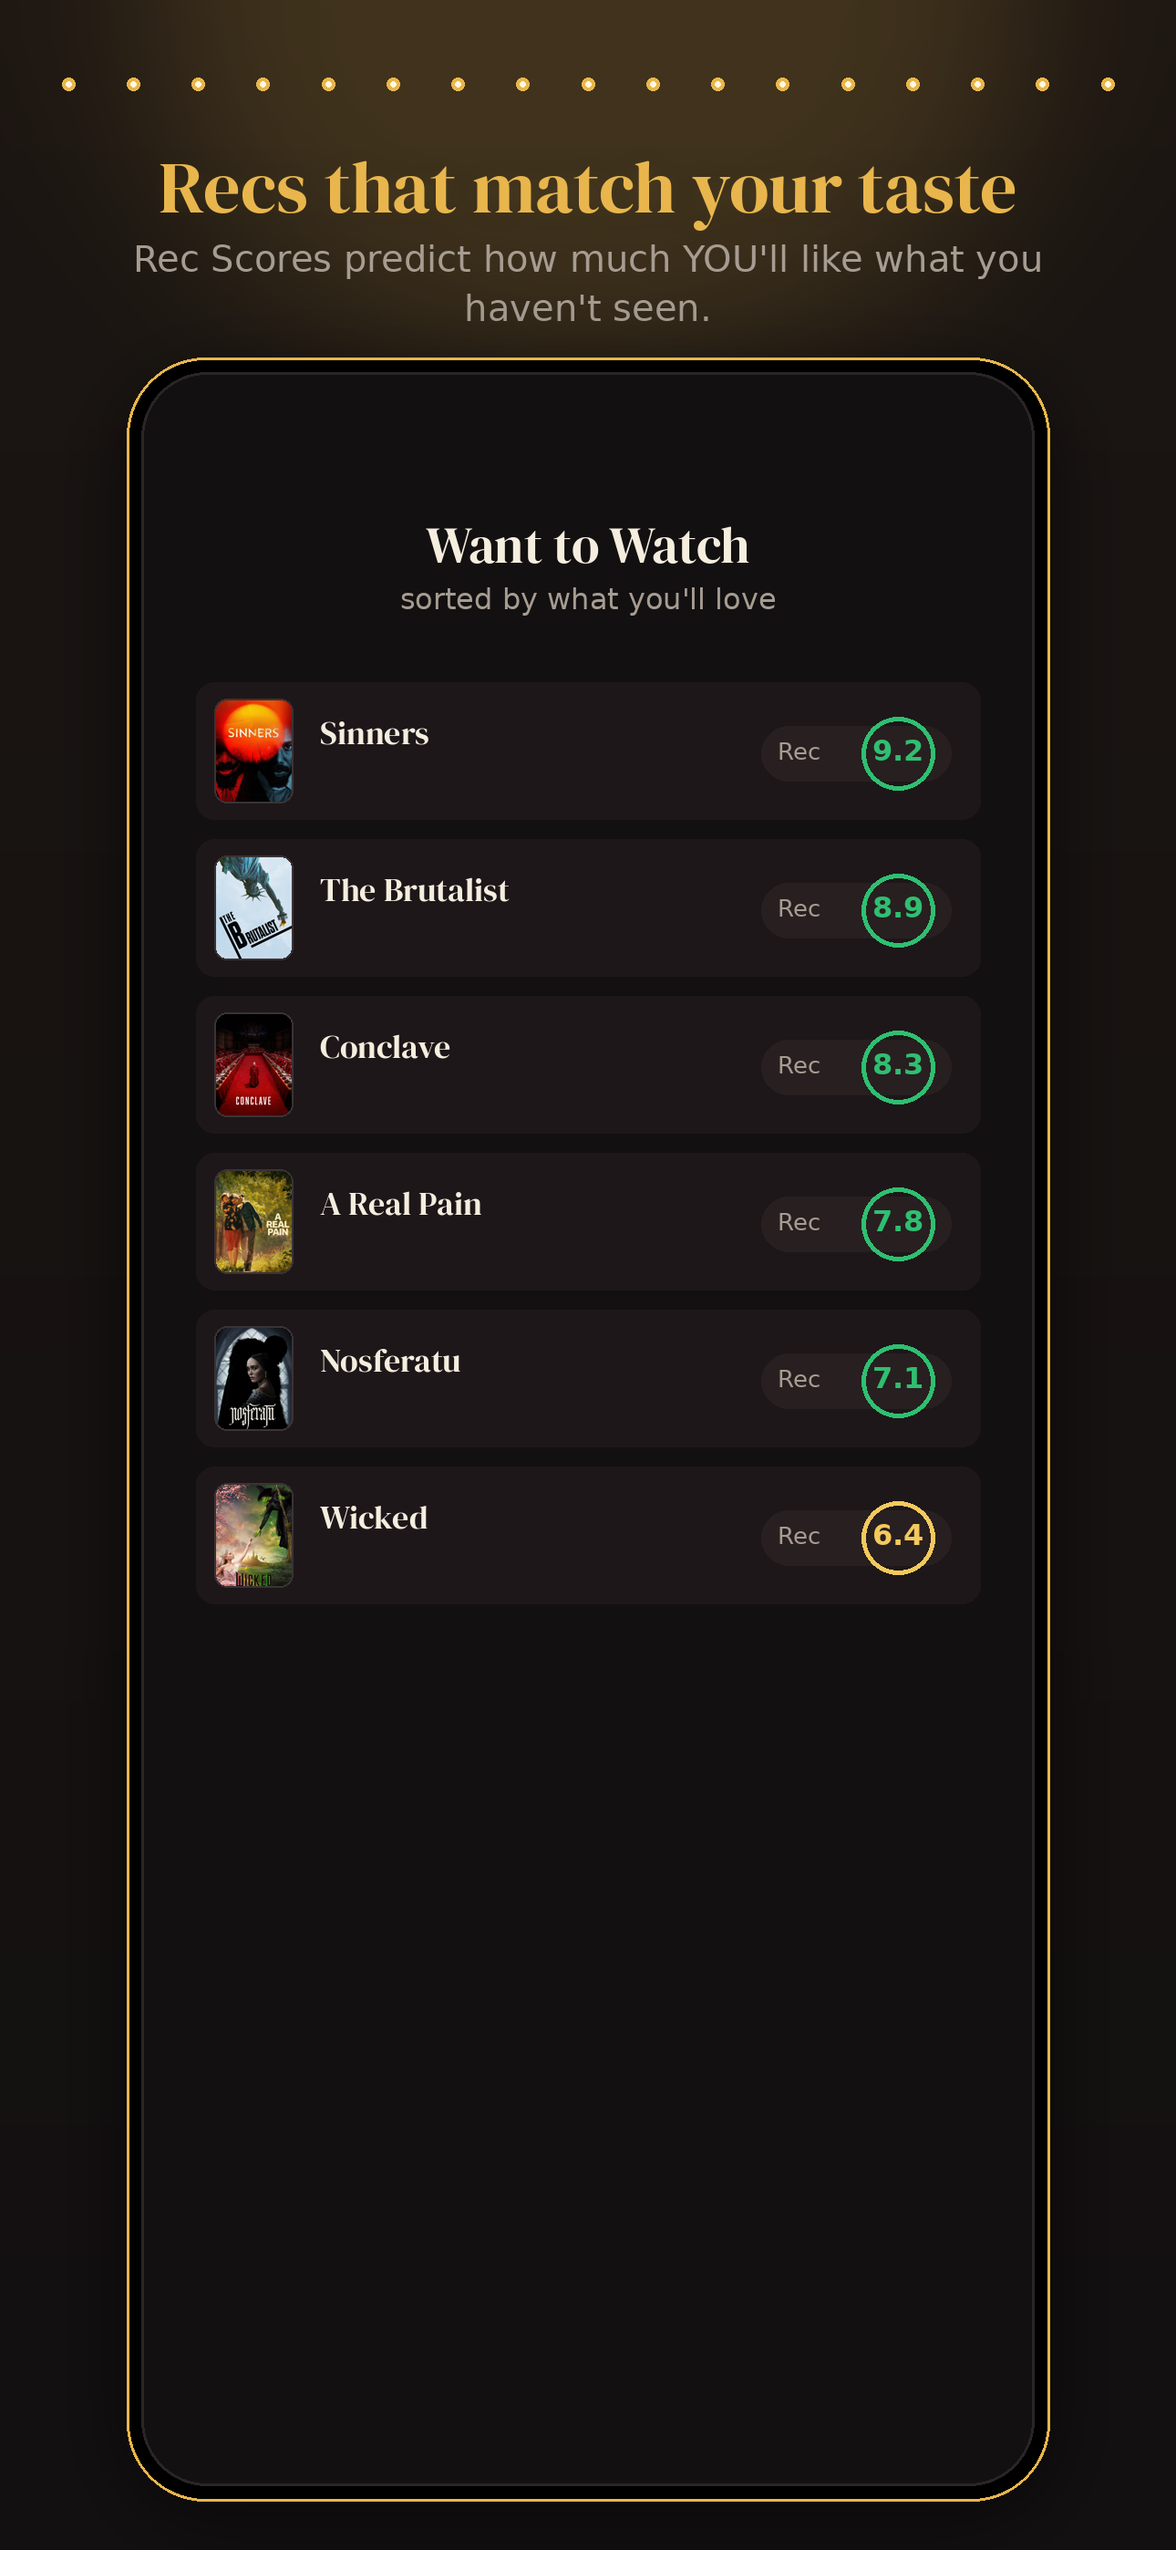
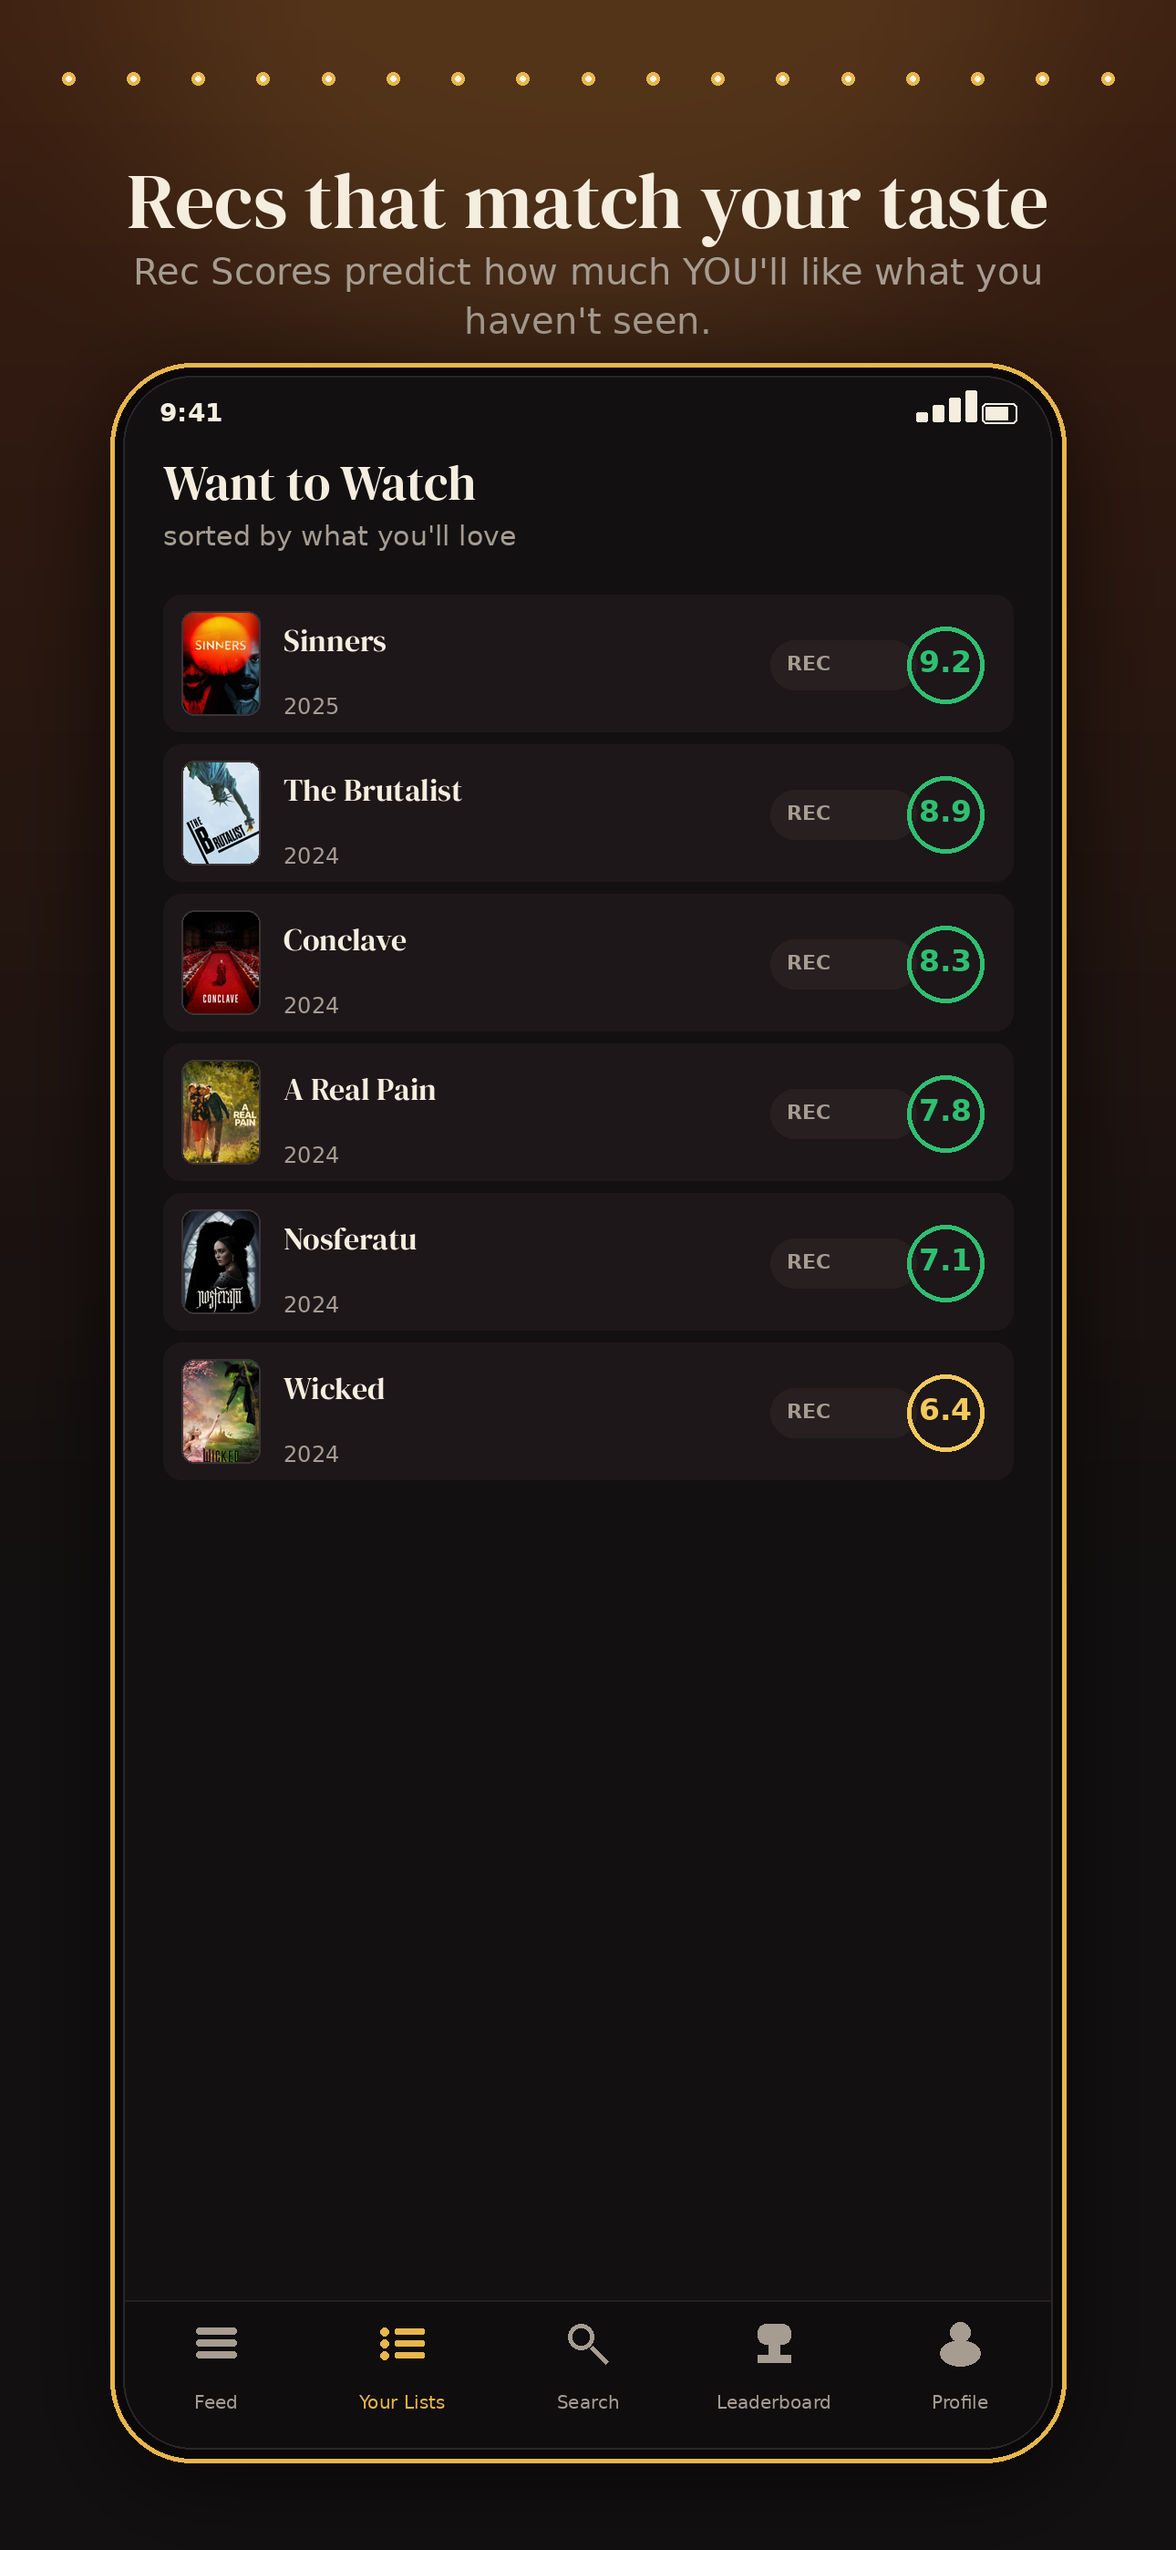
App Store screenshots: marquee bulbs + gold frame, clean header, current UI
Keep the clean serif header/subheader and large iPhone, bring back the marquee
bulb trim and gold phone frame, and render the current app UI (Your Lists
segmented tabs + filter chips, feed with cini header + cards, 5-tab bar) with
real posters on per-frame branded backdrops.

diff --git a/docs/appstore/generate.py b/docs/appstore/generate.py
@@ -74,17 +74,28 @@ def wrap(d, t, f, maxw):
     if cur: out.append(cur)
     return out
 
-def bg():
-    img = Image.new("RGB",(W,H),BG)
+# Per-screen branded backdrops — distinct warm cinema tones (top), settling
+# into the house-lights-down charcoal. Cohesive with the marquee palette.
+BACKDROPS = {
+    "velvet": (0x3a, 0x16, 0x12),
+    "gold":   (0x39, 0x2b, 0x10),
+    "plum":   (0x2c, 0x16, 0x30),
+    "bronze": (0x33, 0x24, 0x12),
+    "ember":  (0x3a, 0x1d, 0x10),
+}
+def bg(accent="gold"):
+    top = BACKDROPS.get(accent, BACKDROPS["gold"])
+    base = (0x13, 0x10, 0x11)
+    img = Image.new("RGB",(W,H))
     d = ImageDraw.Draw(img)
     for y in range(H):
-        t=y/H
-        r=int(0x13+ (0x24-0x13)*(1-t)*0.5); g=int(0x10+(0x1c-0x10)*(1-t)*0.5); b=int(0x11+(0x14-0x11)*(1-t)*0.5)
+        t = min(y/(H*0.62), 1.0)        # fade the tint out by ~60% down
+        r=int(top[0]+(base[0]-top[0])*t); g=int(top[1]+(base[1]-top[1])*t); b=int(top[2]+(base[2]-top[2])*t)
         d.line([(0,y),(W,y)], fill=(r,g,b))
+    # soft marquee-gold glow up top, the brand signature
     glow = Image.new("RGBA",(W,H),(0,0,0,0))
-    gd=ImageDraw.Draw(glow)
-    gd.ellipse([W/2-560, -380, W/2+560, 480], fill=(232,182,76,46))
-    glow=glow.filter(ImageFilter.GaussianBlur(120))
+    ImageDraw.Draw(glow).ellipse([W/2-620,-420,W/2+620,460], fill=(232,182,76,40))
+    glow=glow.filter(ImageFilter.GaussianBlur(150))
     img.paste(Image.alpha_composite(img.convert("RGBA"),glow).convert("RGB"),(0,0))
     return img
 
@@ -95,35 +106,37 @@ def bulbs(d, y, n=17):
         d.ellipse([x-7,y-7,x+7,y+7], fill=MARQUEE)
         d.ellipse([x-3,y-3,x+3,y+3], fill="#fff7e0")
 
-def caption(d, headline, sub, hl_color=MARQUEE):
-    y=150
-    bulbs(d, 92)
-    for ln in wrap(d, headline, sf(80), W-150):
-        ctext(d, W/2, y, ln, sf(80), hl_color, glow=(232,182,76,70)); y+=94
-    y+=16
-    for ln in wrap(d, sub, sa(40), W-220):
+def caption(d, headline, sub):
+    bulbs(d, 86)              # marquee trim across the very top
+    y=160
+    for ln in wrap(d, headline, sf(86), W-150):
+        ctext(d, W/2, y, ln, sf(86), INK); y+=100
+    y+=14
+    for ln in wrap(d, sub, sa(40), W-200):
         ctext(d, W/2, y, ln, sa(40), GRAY); y+=54
     return y
 
 SCREEN = None  # set by phone(); poster() pastes onto this
 def phone(top, draw_screen):
+    """Large clean phone — black bezel + soft shadow, no ornamental rim."""
     global SCREEN
-    pw, ph = 980, 2796-top-70
+    pw, ph = 1020, 2796-top-110
     x0=(W-pw)//2; y0=top
     sh=Image.new("RGBA",(W,H),(0,0,0,0))
-    ImageDraw.Draw(sh).rounded_rectangle([x0-16,y0+10,x0+pw+16,y0+ph+30], radius=92, fill=(0,0,0,150))
-    sh=sh.filter(ImageFilter.GaussianBlur(40))
+    ImageDraw.Draw(sh).rounded_rectangle([x0-14,y0+14,x0+pw+14,y0+ph+34], radius=96, fill=(0,0,0,160))
+    sh=sh.filter(ImageFilter.GaussianBlur(46))
     BASE.paste(Image.alpha_composite(BASE.convert("RGBA"),sh).convert("RGB"),(0,0))
     d=ImageDraw.Draw(BASE)
-    d.rounded_rectangle([x0-16,y0-16,x0+pw+16,y0+ph+16], radius=86, fill="#000000")
-    d.rounded_rectangle([x0-16,y0-16,x0+pw+16,y0+ph+16], radius=86, outline=MARQUEE, width=3)
+    d.rounded_rectangle([x0-14,y0-14,x0+pw+14,y0+ph+14], radius=90, fill="#0a0809")
+    # marquee-gold frame echoing the app icon's border
+    d.rounded_rectangle([x0-14,y0-14,x0+pw+14,y0+ph+14], radius=90, outline=MARQUEE, width=5)
     screen=Image.new("RGB",(pw,ph),BG); SCREEN=screen
     sd=ImageDraw.Draw(screen)
     draw_screen(sd, pw, ph)
     mask=Image.new("L",(pw,ph),0)
-    ImageDraw.Draw(mask).rounded_rectangle([0,0,pw-1,ph-1], radius=72, fill=255)
+    ImageDraw.Draw(mask).rounded_rectangle([0,0,pw-1,ph-1], radius=76, fill=255)
     BASE.paste(screen,(x0,y0),mask)
-    d.rounded_rectangle([x0,y0,x0+pw-1,y0+ph-1], radius=72, outline="#2a2526", width=3)
+    d.rounded_rectangle([x0,y0,x0+pw-1,y0+ph-1], radius=76, outline="#2a2526", width=2)
 
 def score_badge(d, cx, cy, val, r=44, color=None):
     color = color or (GREEN if val>=7 else FINE if val>=5 else DIS)
@@ -156,88 +169,159 @@ def poster(d, x, y, w, h, title="", tone=0, query=None, year=None):
 
 SHOTS=[]
 
+def status_bar(d, pw):
+    d.text((40, 24), "9:41", font=sb(28), fill=INK)
+    # signal + battery glyphs (simple)
+    for i in range(4):
+        h=10+i*8; d.rounded_rectangle([pw-150+i*18, 50-h, pw-138+i*18, 50], radius=2, fill=INK)
+    d.rounded_rectangle([pw-78, 30, pw-40, 52], radius=5, outline=INK, width=2)
+    d.rectangle([pw-74, 34, pw-50, 48], fill=INK)
+
+def tabbar(d, pw, ph, active=0):
+    bh=164; y=ph-bh
+    d.rectangle([0,y,pw,ph], fill=(15,13,14))
+    d.line([(0,y),(pw,y)], fill="#241f20", width=2)
+    labels=["Feed","Your Lists","Search","Leaderboard","Profile"]
+    step=pw/5
+    for i,lbl in enumerate(labels):
+        cx=step*i+step/2; iy=y+46; col=MARQUEE if i==active else GRAY
+        if i==0:
+            for k in range(3): d.rounded_rectangle([cx-22,iy-16+k*13,cx+22,iy-9+k*13],radius=3,fill=col)
+        elif i==1:
+            for k in range(3):
+                d.ellipse([cx-24,iy-16+k*13,cx-15,iy-7+k*13],fill=col)
+                d.rounded_rectangle([cx-8,iy-15+k*13,cx+24,iy-9+k*13],radius=2,fill=col)
+        elif i==2:
+            d.ellipse([cx-22,iy-20,cx+6,iy+8],outline=col,width=5); d.line([cx+3,iy+5,cx+20,iy+22],fill=col,width=6)
+        elif i==3:
+            d.rounded_rectangle([cx-18,iy-20,cx+18,iy+2],radius=9,fill=col)
+            d.rectangle([cx-6,iy+2,cx+6,iy+14],fill=col); d.rectangle([cx-18,iy+14,cx+18,iy+22],fill=col)
+        else:
+            d.ellipse([cx-11,iy-22,cx+11,iy],fill=col); d.ellipse([cx-22,iy-2,cx+22,iy+26],fill=col)
+        f=sa(20); w=d.textlength(lbl,font=f); d.text((cx-w/2,y+100),lbl,font=f,fill=col)
+
+def chip(d, x, y, text, active=False):
+    f=sa(26); w=d.textlength(text,font=f); cw=w+44; ch=58
+    if active:
+        d.rounded_rectangle([x,y,x+cw,y+ch],radius=29,fill=MARQUEE)
+        d.text((x+22,y+14),text,font=f,fill=(19,16,17))
+    else:
+        d.rounded_rectangle([x,y,x+cw,y+ch],radius=29,outline="#3a3335",width=2)
+        d.text((x+22,y+14),text,font=f,fill=GRAY)
+    return x+cw+14
+
+# 1 — HERO (clean brand intro)
 def s_hero(d, pw, ph):
     cx=pw//2
-    d.rounded_rectangle([60,150,pw-60,ph-150], radius=40, outline=MARQUEE, width=4)
-    for i in range(12):
-        x=120+i*((pw-240)/11); d.ellipse([x-6,176,x+6,188],fill=MARQUEE)
-        d.ellipse([x-6,ph-188,x+6,ph-176],fill=MARQUEE)
-    f=disp(150); t="CINI"; w=d.textlength(t,font=f)
-    d.text((cx-w/2, ph/2-300), t, font=f, fill=MARQUEE)
-    ctext(d, cx, ph/2-90, "EVERY FILM · RANKED", sb(32), GRAY, track=10)
+    f=disp(168); t="CINI"; w=d.textlength(t,font=f)
+    d.text((cx-w/2, ph*0.30), t, font=f, fill=MARQUEE)
+    ctext(d, cx, ph*0.30+200, "EVERY FILM · RANKED", sb(34), GRAY, track=12)
+    ctext(d, cx, ph*0.52, "Rank everything you watch", sf(46), INK)
+    ctext(d, cx, ph*0.52+70, "through quick head-to-head taps.", sf(46), INK)
     for k,(c,lbl) in enumerate([(LOVE,"Liked it"),(FINE,"It was fine"),(DIS,"Didn't")]):
         bx=cx-300+k*300
-        d.ellipse([bx-58,ph/2+80,bx+58,ph/2+196], fill=c)
-        ww=d.textlength(lbl,font=sa(28)); d.text((bx-ww/2, ph/2+220), lbl, font=sa(28), fill=GRAY)
-SHOTS.append(("01-hero", "Every film, ranked.", "No star ratings — just your taste, in perfect order.", s_hero, INK))
+        d.ellipse([bx-60,ph*0.70,bx+60,ph*0.70+120], fill=c)
+        ww=d.textlength(lbl,font=sa(28)); d.text((bx-ww/2, ph*0.70+150), lbl, font=sa(28), fill=GRAY)
+SHOTS.append(("01-hero", "Every film, ranked.", "No star ratings — just your taste, in perfect order.", s_hero, "gold"))
 
+# 2 — COMPARE (the ranking modal)
 def s_compare(d, pw, ph):
-    ctext(d, pw//2, 150, "Which did you", sf(60), INK)
-    ctext(d, pw//2, 224, "like more?", sf(60), INK)
-    pwid=360; px=70; py=440
+    status_bar(d, pw)
+    cx=pw//2
+    ctext(d, cx, 200, "Which did you", sf(64), INK)
+    ctext(d, cx, 280, "like more?", sf(64), INK)
+    pwid=380; px=80; py=520
     poster(d, px, py, pwid, pwid*3//2, query="Whiplash", year=2014)
     poster(d, pw-px-pwid, py, pwid, pwid*3//2, query="Interstellar", year=2014)
-    d.ellipse([pw//2-52, py+pwid*3//4-52, pw//2+52, py+pwid*3//4+52], fill=VELVET)
-    vt="VS"; f=sb(40); w=d.textlength(vt,font=f); d.text((pw//2-w/2, py+pwid*3//4-26), vt, font=f, fill="#fff")
-    ctext(d, pw//2, py+pwid*3//2+70, "A few quick taps — no scores to overthink.", sa(28), GRAY)
-SHOTS.append(("02-no-star-ratings", "No star ratings. Ever.", "Answer one question and Cini orders everything you've seen.", s_compare, MARQUEE))
+    cyc=py+pwid*3//4
+    d.ellipse([cx-56, cyc-56, cx+56, cyc+56], fill=VELVET)
+    vt="VS"; f=sb(42); w=d.textlength(vt,font=f); d.text((cx-w/2, cyc-28), vt, font=f, fill="#fff")
+    for k,c in enumerate([LOVE,FINE,DIS]):
+        bx=cx-150+k*150; by=py+pwid*3//2+90
+        d.ellipse([bx-32,by,bx+32,by+64], fill=c)
+    ctext(d, cx, py+pwid*3//2+200, "A few quick taps — no scores to overthink.", sa(28), GRAY)
+SHOTS.append(("02-no-star-ratings", "No star ratings. Ever.", "Answer one question and Cini orders everything you've seen.", s_compare, "velvet"))
 
+# 3 — YOUR LISTS (current app: segmented tabs + filter chips + ranked rows)
 def s_list(d, pw, ph):
-    ctext(d, pw//2, 150, "Your ranked list", sf(56), INK)
-    titles=[("Past Lives",2023,9.4),("The Zone of Interest",2023,8.8),("Oppenheimer",2023,8.1),
-            ("Poor Things",2023,7.6),("Killers of the Flower Moon",2023,7.0),
-            ("Saltburn",2023,6.2),("Wonka",2023,5.4)]
-    y=300
+    status_bar(d, pw)
+    d.text((44, 80), "Your Lists", font=sf(58), fill=INK)
+    segs=["Watched","Want to Watch","Recs"]; sy=180; sx=44; sw=pw-88
+    d.rounded_rectangle([sx,sy,sx+sw,sy+74], radius=37, fill=FILL)
+    seg_w=sw/3
+    for i,s in enumerate(segs):
+        if i==0: d.rounded_rectangle([sx+5,sy+5,sx+seg_w-3,sy+69], radius=32, fill=SURF)
+        f=sa(27); w=d.textlength(s,font=f); d.text((sx+seg_w*i+seg_w/2-w/2, sy+22), s, font=f, fill=INK if i==0 else GRAY)
+    fy=sy+102; x=44
+    x=chip(d,x,fy,"Movies",active=True); x=chip(d,x,fy,"TV")
+    x=chip(d,x,fy,"Genre"); x=chip(d,x,fy,"Decade")
+    titles=[("Past Lives",2023,9.4),("Oppenheimer",2023,8.6),("Poor Things",2023,7.6),
+            ("Killers of the Flower Moon",2023,7.0),("Saltburn",2023,6.2)]
+    y=fy+92
     for i,(t,yr,sc) in enumerate(titles):
-        d.rounded_rectangle([60,y,pw-60,y+150], radius=20, fill=SURF)
-        d.text((92,y+54), f"{i+1}", font=sb(40), fill=GRAY)
-        poster(d, 165, y+18, 86, 114, query=t, year=yr)
-        for j,ln in enumerate(wrap(d, t, sf(36), pw-165-300)):
-            d.text((280, y+30+j*42), ln, font=sf(36), fill=INK)
-        score_badge(d, pw-130, y+75, sc)
-        y+=172
-SHOTS.append(("03-ranked-list", "A list that's truly yours", "Every title scored out of 10 — by you, not strangers.", s_list, MARQUEE))
+        d.rounded_rectangle([44,y,pw-44,y+150], radius=20, fill=SURF)
+        d.text((74,y+52), f"{i+1}", font=sb(38), fill=GRAY)
+        poster(d, 146, y+18, 86, 114, query=t, year=yr)
+        for j,ln in enumerate(wrap(d, t, sf(34), pw-270-170)):
+            d.text((262, y+26+j*40), ln, font=sf(34), fill=INK)
+        d.text((262, y+108), str(yr), font=sa(24), fill=GRAY)
+        score_badge(d, pw-118, y+75, sc)
+        y+=166
+    tabbar(d, pw, ph, active=1)
+SHOTS.append(("03-ranked-list", "A list that's truly yours", "Every title scored out of 10 — by you, not strangers.", s_list, "bronze"))
 
+# 4 — FEED (cini header, search, pills, friend cards)
 def s_feed(d, pw, ph):
-    ctext(d, pw//2, 150, "Better with friends", sf(56), INK)
-    cards=[("MAYA","ranked","Dune: Part Two",2024,8.7),("LEO","wants to watch","The Substance",2024,None),
-           ("PRIYA","ranked","Anora",2024,9.1)]
-    y=300
+    status_bar(d, pw)
+    d.text((44, 72), "cini", font=disp(52), fill=MARQUEE)
+    for k in range(3):
+        bx=pw-220+k*70; d.ellipse([bx,86,bx+40,126], outline=GRAY, width=4)
+    d.rounded_rectangle([44,170,pw-44,242], radius=20, fill=FILL)
+    d.ellipse([66,190,98,222], outline=GRAY, width=4)
+    d.text((118,188), "Search a movie, member, etc.", font=sa(28), fill=GRAY)
+    x=chip(d,44,270,"Trending"); x=chip(d,x,270,"Friend Recs")
+    cards=[("MAYA","ranked","Dune: Part Two",2024,8.7),("PRIYA","ranked","Anora",2024,9.1)]
+    y=370
     for name,act,title,yr,sc in cards:
-        d.rounded_rectangle([60,y,pw-60,y+330], radius=22, fill=SURF)
-        poster(d, 92, y+34, 130, 174, query=title, year=yr)
-        d.text((250,y+44), f"@{name.lower()}", font=sb(30), fill=INK)
-        d.text((250,y+90), f"{act}", font=sa(26), fill=GRAY)
+        d.rounded_rectangle([44,y,pw-44,y+360], radius=22, fill=SURF)
+        d.ellipse([74,y+30,150,y+106], fill=SURF2)
+        d.text((86,y+46), name[0], font=disp(42), fill=MARQUEE)
+        d.text((170,y+40), f"@{name.lower()}", font=sb(30), fill=INK)
+        d.text((170,y+86), act, font=sa(26), fill=GRAY)
+        poster(d, 74, y+140, 150, 200, query=title, year=yr)
         for j,ln in enumerate(wrap(d, title, sf(40), pw-460)):
-            d.text((250, y+140+j*46), ln, font=sf(40), fill=INK)
-        if sc is not None: score_badge(d, pw-150, y+96, sc, r=48)
-        for k,ic in enumerate(["like","reply","share"]):
-            d.text((250+k*150, y+256), ic, font=sa(26), fill=GRAY)
-        y+=355
-SHOTS.append(("04-friends", "Know before you commit", "See what friends scored before you spend the night on it.", s_feed, MARQUEE))
+            d.text((254, y+170+j*48), ln, font=sf(40), fill=INK)
+        if sc is not None: score_badge(d, pw-150, y+220, sc, r=50)
+        y+=386
+    tabbar(d, pw, ph, active=0)
+SHOTS.append(("04-friends", "Better with friends", "See what friends scored before you spend a night on it.", s_feed, "plum"))
 
+# 5 — WANT TO WATCH, sorted by Rec Score
 def s_recs(d, pw, ph):
-    ctext(d, pw//2, 150, "Want to Watch", sf(56), INK)
-    ctext(d, pw//2, 230, "sorted by what you'll love", sa(32), GRAY)
+    status_bar(d, pw)
+    d.text((44, 80), "Want to Watch", font=sf(54), fill=INK)
+    d.text((44, 158), "sorted by what you'll love", font=sa(30), fill=GRAY)
     titles=[("Sinners",2025,9.2),("The Brutalist",2024,8.9),("Conclave",2024,8.3),
             ("A Real Pain",2024,7.8),("Nosferatu",2024,7.1),("Wicked",2024,6.4)]
-    y=340
+    y=240
     for t,yr,sc in titles:
-        d.rounded_rectangle([60,y,pw-60,y+150], radius=20, fill=SURF)
-        poster(d, 80, y+18, 86, 114, query=t, year=yr)
-        for j,ln in enumerate(wrap(d, t, sf(36), pw-200-320)):
-            d.text((196, y+30+j*42), ln, font=sf(36), fill=INK)
-        d.rounded_rectangle([pw-300, y+48, pw-92, y+108], radius=30, fill=SURF2)
-        d.text((pw-282, y+60), "Rec", font=sa(26), fill=GRAY)
-        score_badge(d, pw-150, y+78, sc, r=40)
-        y+=172
-SHOTS.append(("05-rec-scores", "Recs that match your taste", "Rec Scores predict how much YOU'll like what you haven't seen.", s_recs, MARQUEE))
+        d.rounded_rectangle([44,y,pw-44,y+150], radius=20, fill=SURF)
+        poster(d, 64, y+18, 86, 114, query=t, year=yr)
+        for j,ln in enumerate(wrap(d, t, sf(34), pw-220-300)):
+            d.text((176, y+26+j*40), ln, font=sf(34), fill=INK)
+        d.text((176, y+108), str(yr), font=sa(24), fill=GRAY)
+        d.rounded_rectangle([pw-310, y+50, pw-150, y+104], radius=27, fill=SURF2)
+        d.text((pw-292, y+62), "REC", font=sb(22), fill=GRAY)
+        score_badge(d, pw-118, y+77, sc, r=42)
+        y+=164
+    tabbar(d, pw, ph, active=1)
+SHOTS.append(("05-rec-scores", "Recs that match your taste", "Rec Scores predict how much YOU'll like what you haven't seen.", s_recs, "ember"))
 
 os.makedirs(OUT, exist_ok=True)
-for name, headline, sub, fn, hl in SHOTS:
-    BASE = bg()
+for name, headline, sub, fn, accent in SHOTS:
+    BASE = bg(accent)
     d = ImageDraw.Draw(BASE)
-    ph_top = caption(d, headline, sub, hl) + 40
+    ph_top = caption(d, headline, sub) + 30
     phone(int(ph_top), fn)
     BASE.save(os.path.join(OUT, f"{name}.png"))
     print("saved", name)
